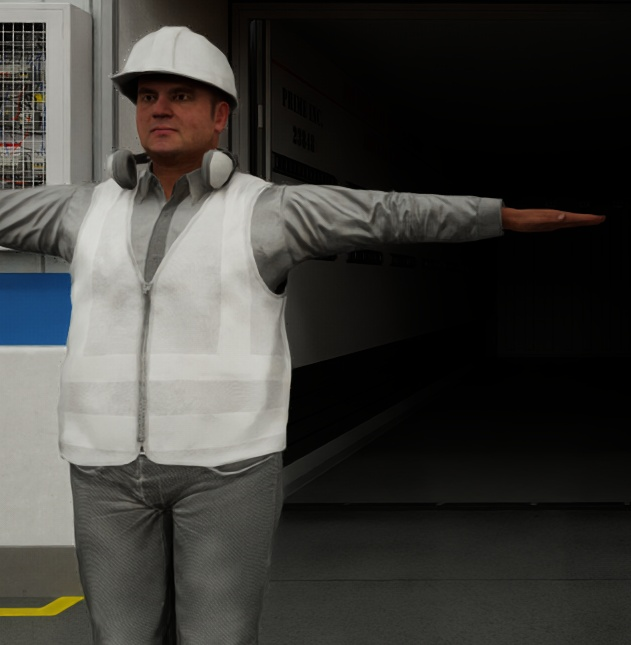
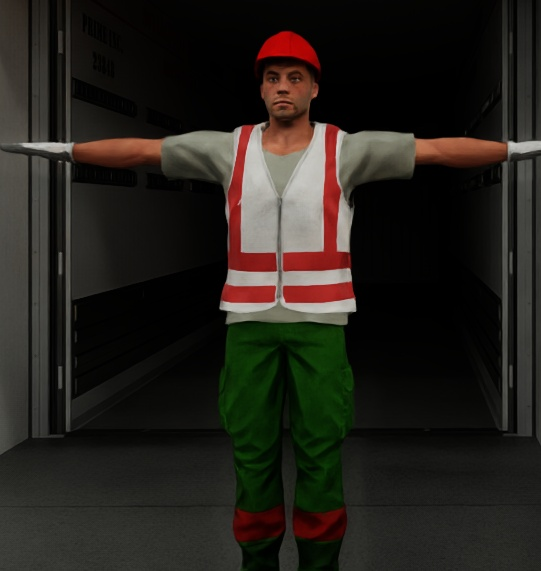
Add fall detection (bbox aspect ratio) and loitering detection (repeated zone presence)

diff --git a/unified_tracking.py b/unified_tracking.py
@@ -1,8 +1,10 @@
 r"""
 Unified tracking + movement loop.
 People continuously patrol their waypoint loop WHILE the system sweeps all
-4 zone cameras + checkpoint camera for detection/re-ID/authorization, all
-in one running Isaac Sim instance. Press Ctrl+C to stop.
+4 zone cameras + checkpoint camera for detection/re-ID/authorization/fall
+detection/loitering, all in one running Isaac Sim instance.
+
+Press Ctrl+C to stop.
 
 Run from PowerShell:
     C:\isaacsim\python.bat C:\isaacsim\projects\surveillance-proj\unified_tracking.py
@@ -20,9 +22,10 @@ EVENT_LOG_FILE = PROJECT_DIR + r"\event_log.json"
 CHECKPOINT_NAME = "EntryCamera"
 CHECKPOINT_PATH = "/World/EntryCamera"
 
-SCAN_INTERVAL_SECONDS = 8  # how often to run a full camera sweep
+SCAN_INTERVAL_SECONDS = 8   # how often to run a full camera sweep
+LOITER_THRESHOLD = 3        # consecutive same-zone sightings to flag loitering
 
-# --- People + patrol path (from move_people.py) ---
+# --- People + patrol path ---
 PEOPLE = {
     "Person1": {"prim_path": "/World/male_adult_police_04",          "start_delay": 0},
     "Person2": {"prim_path": "/World/male_adult_construction_03",     "start_delay": 5},
@@ -39,7 +42,7 @@ WAYPOINTS = [
     (29.9, 13.4, 0),
 ]
 SECONDS_PER_LEG = 4
-LOOP_PATROL = True  # once they finish the path, start over from the beginning
+LOOP_PATROL = True
 
 from isaacsim import SimulationApp
 simulation_app = SimulationApp({"headless": HEADLESS})
@@ -193,6 +196,36 @@ def crop_person(bgr_image, detection, padding=25):
     return bgr_image[y1:y2, x1:x2]
 
 
+def check_for_fall(detection):
+    """A standing person's bounding box is taller than wide. A fallen
+    person's box becomes wider than tall. Reuses the YOLO detection we
+    already computed - no extra model needed."""
+    width = detection["x2"] - detection["x1"]
+    height = detection["y2"] - detection["y1"]
+    if height == 0:
+        return False
+    aspect_ratio = width / height
+    return aspect_ratio > 1.3
+
+
+def check_loitering(zone_name, person_id, threshold=LOITER_THRESHOLD):
+    """Flags loitering if the same person was logged in the same zone for
+    the last `threshold` consecutive zone-type log entries for that zone."""
+    if not os.path.exists(EVENT_LOG_FILE):
+        return False
+    with open(EVENT_LOG_FILE, "r") as f:
+        try:
+            log = json.load(f)
+        except json.JSONDecodeError:
+            return False
+
+    zone_entries = [e for e in log if e.get("event_type") == "zone" and e.get("zone") == zone_name]
+    recent = zone_entries[-threshold:]
+    if len(recent) < threshold:
+        return False
+    return all(e["person_id"] == person_id for e in recent)
+
+
 def scan_zone_camera(camera_path, zone_name):
     print(f"  scanning {zone_name}...")
     bgr = capture_frame(camera_path)
@@ -212,6 +245,16 @@ def scan_zone_camera(camera_path, zone_name):
         return None
 
     best_detection = max(detections, key=lambda d: d["confidence"])
+
+    if check_for_fall(best_detection):
+        print(f"  [{zone_name}] *** FALL DETECTED ***")
+        append_log_entry({
+            "event_type": "fall_alert",
+            "zone": zone_name,
+            "camera": camera_path,
+            "timestamp": datetime.now(timezone.utc).isoformat()
+        })
+
     crop = crop_person(bgr, best_detection)
     if crop.size == 0:
         return {"error": "empty crop"}
@@ -241,6 +284,16 @@ def scan_checkpoint(authorized_ids):
         return
 
     best_detection = max(detections, key=lambda d: d["confidence"])
+
+    if check_for_fall(best_detection):
+        print(f"  [CHECKPOINT] *** FALL DETECTED ***")
+        append_log_entry({
+            "event_type": "fall_alert",
+            "zone": "CHECKPOINT",
+            "camera": CHECKPOINT_PATH,
+            "timestamp": datetime.now(timezone.utc).isoformat()
+        })
+
     crop = crop_person(bgr, best_detection)
     if crop.size == 0:
         return
@@ -249,7 +302,6 @@ def scan_checkpoint(authorized_ids):
     cv2.imwrite(crop_path, crop)
     reid_result = run_subprocess("deepface_reid.py", [crop_path, KNOWN_FACES_DIR])
 
-    
     person_id = None
     status = reid_result.get("status")
 
@@ -287,10 +339,23 @@ def run_sweep(camera_zones, authorized_ids):
         if result.get("error"):
             print(f"  [{zone_name}] error: {result['error']}")
             continue
-        print(f"  [{zone_name}] {result['person_id']}")
+
+        person_id = result["person_id"]
+        print(f"  [{zone_name}] {person_id}")
+
+        if person_id not in (None, "unidentified"):
+            if check_loitering(zone_name, person_id):
+                print(f"  [{zone_name}] *** LOITERING: {person_id} ***")
+                append_log_entry({
+                    "event_type": "loitering_alert",
+                    "person_id": person_id,
+                    "zone": zone_name,
+                    "timestamp": timestamp
+                })
+
         append_log_entry({
             "event_type": "zone",
-            "person_id": result["person_id"],
+            "person_id": person_id,
             "zone": zone_name,
             "camera": camera_path,
             "timestamp": timestamp
@@ -318,7 +383,6 @@ def main():
     for _ in range(20):
         simulation_app.update()
 
-    # Set up movers
     movers = []
     for name, info in PEOPLE.items():
         prim = stage.GetPrimAtPath(info["prim_path"])
@@ -341,12 +405,10 @@ def main():
         while True:
             elapsed = time.time() - sim_start
 
-            # Continuously advance people along their patrol path
             for m in movers:
                 update_person_position(m, elapsed)
             simulation_app.update()
 
-            # Periodically run a full camera sweep
             if elapsed - last_sweep_time >= SCAN_INTERVAL_SECONDS:
                 authorized_ids = load_authorized_ids()
                 run_sweep(camera_zones, authorized_ids)

diff --git a/deepface_reid.py b/deepface_reid.py
@@ -1,4 +1,4 @@
-"""
+r"""
 Runs DeepFace re-identification: checks if the face in the given image
 matches a known person in the known_faces/ database.
 
@@ -28,10 +28,6 @@ def main():
 
     from deepface import DeepFace
 
-    has_known_faces = any(
-        f.lower().endswith((".jpg", ".jpeg", ".png"))
-        for f in os.listdir(db_path)
-    ) if os.path.isdir(db_path) else False
     # Delete any stale DeepFace cache files before searching - we're actively
     # adding new reference images between calls, and a stale cache can cause
     # real matches to be silently missed.
@@ -39,6 +35,12 @@ def main():
         for f in os.listdir(db_path):
             if f.endswith(".pkl"):
                 os.remove(os.path.join(db_path, f))
+
+    has_known_faces = any(
+        f.lower().endswith((".jpg", ".jpeg", ".png"))
+        for f in os.listdir(db_path)
+    ) if os.path.isdir(db_path) else False
+
     # First, confirm a face can even be detected in this image at all,
     # independent of whether it matches anyone known.
     try:
